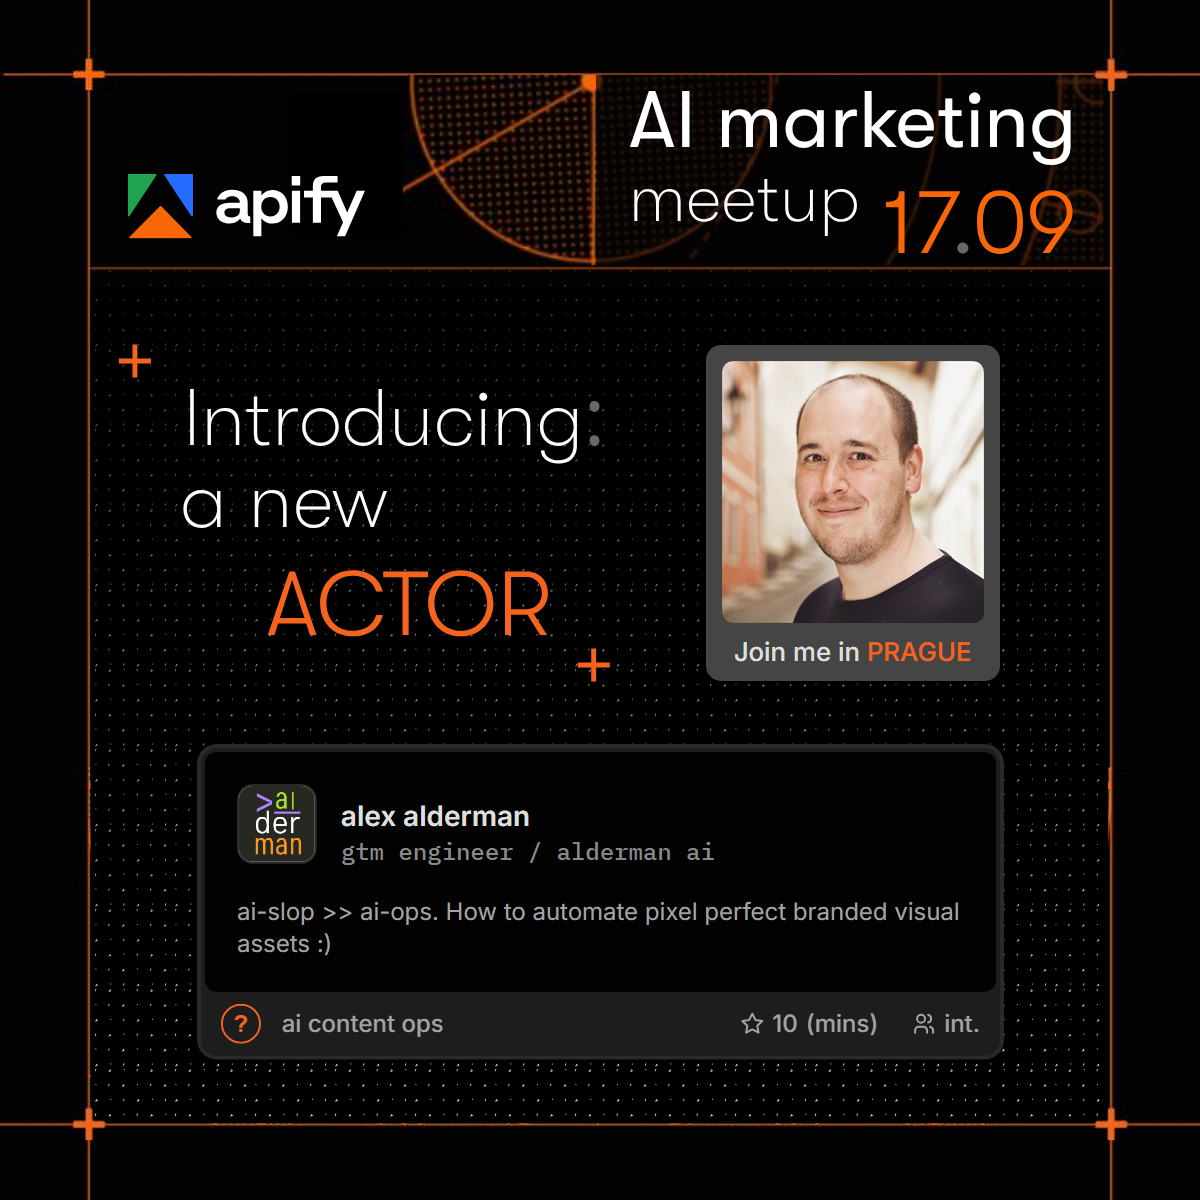
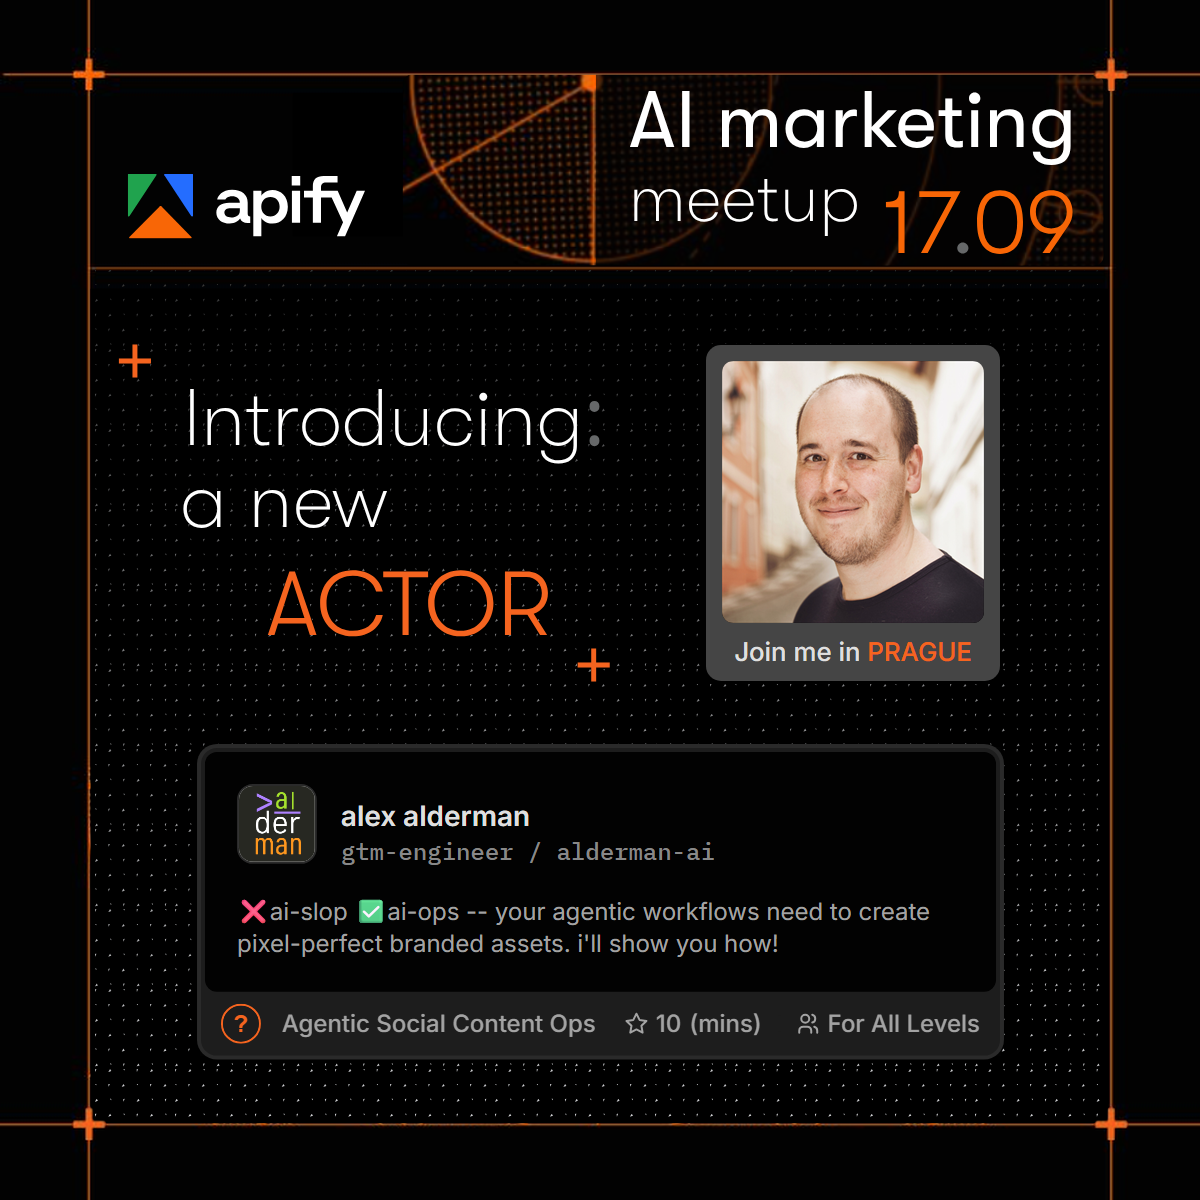
Regenerate the alex-alderman card; raise the blurb budget to 115 in the skills
Rebuilt the author card end to end after new blurb copy:

  from ai-slop to ai-ops -- your agentic workflows for branded visual
  assets need to be pixel-perfect. let me show you how!

121 characters, rendered and measured at 32px into the 32px description
slot -- two full lines, no ellipsis. Delivered as alex-alderman-01 under
the duplicate-suffix rule; the earlier 106-char render stays in place.

Archive assets renamed to the contract names (company-logo.png,
speaker.png) so the folder matches what the generator expects.

Both skills now state a 115-character description budget. The old 100 was
a conservative character count standing in for a width constraint, and
the count is the wrong unit: two candidate strings of exactly 124
characters were measured, one fitting and one clipping. The template and
its copies still read 100 -- squaring that is a separate, deliberate
versioned change.

Claude-Session: https://claude.ai/code/session_01PiEpWPqsGy8i4TfCfZ5Ywn

diff --git a/processed/alex-alderman/intake.md b/processed/alex-alderman/intake.md
@@ -1,70 +1,28 @@
 ---
-# =============================================================================
-# ACTOR CARD INTAKE  —  one file = one rendered card
-# Lives as intake.md inside one speaker folder under to-process/.
-# Scaffold a folder by telling the assistant: new speaker "Name Surname"
-# Relative paths resolve from this file, i.e. from inside that folder.
-# Every field is documented in §2 below. Operators type ONLY in the fenced
-# input sections in the body ("Input presentation details here"); as step 1
-# of processing the assistant transfers each fence's contents into its
-# frontmatter variable here. This frontmatter is the machine record, not
-# the authoring surface. Everything else is documentation for humans.
-# =============================================================================
-
-# --- 1. base template --------------------------------------------------------
-# Fixed for this demo: ONE visual template with fixed dimensions (1200x1200).
-base_image:         "../../visual-templates/speaker-teaser-linkedin.png"
-
-# --- 2. images ---------------------------------------------------------------
-# NOTE: the small circle icon in the card footer is STATIC across every
-# generated card and is bundled with the skill. It is not an input.
-assets_root:        ""              # images live beside this form, in the folder
-company_logo:       "alderman-ai-mark-v1.png"
-speaker_image:      "speaker.png"   # square 1:1, PNG/JPG/JPEG, at most 800x800.
-                                     # Ideal: 262x262 (the slot's exact size).
-                                     # The skill scales an accepted square to
-                                     # fit; anything off-spec halts the run.
-
-# --- 3. speaker -- WRITTEN BY ASSISTANT from the body fences -----------------
-speaker_name:       "alex alderman"
-speaker_position:   "gtm engineer"
-speaker_company:    "alderman ai"
-
-# --- 4. the talk -- WRITTEN BY ASSISTANT from the body fences ----------------
-# NOTE: the presentation description is NOT a frontmatter field. It lives in
-# the body below, in the presentation-description fence. See just under the
-# frontmatter, and §2.
-topic_category:     "ai content ops"
-
-# --- 5. talk metadata (card footer, right) -- WRITTEN BY ASSISTANT -----------
-level:              "int."              # all | easy | int. | adv.
-duration_minutes:   "10"              # number only — the card renders 10 (mins)
-
-# --- 6. placement -- DERIVED, DO NOT AUTHOR ----------------------------------
-# The template image is canon. The skill measures both placeholders from
-# base_image at generation time and writes the eight values back here as a
-# record of what it used. Anything you type is overwritten. See §1b.
-# Values below are from the last run, not a specification.
-
-# actor card block — purple placeholder
-card_x:             200.5
-card_y:             748.028
-card_w:             799
-card_h:             306.949
-
-# speaker card block — green placeholder (the full footprint of the
-# card-style speaker component: square photo + "Join me in PRAGUE" bar)
-speaker_x:          705.5
-speaker_y:          345
-speaker_w:          294
-speaker_h:          336
-
-# --- 7. render options -------------------------------------------------------
-# output is optional. Default: final-output/<speaker-name>-final.png
-output:             ""
-card_width:         400
-desc_lines:         2
-href:               ""
+version: 3
+versioned_at: 2026-09-03 00:50
+base_image: ../../_internal/core-templates-please-dont-touch/speaker-teaser-linkedin_v3.png
+assets_root: ""
+company_logo: company-logo.png
+speaker_image: speaker.png
+speaker_name: alex alderman
+speaker_position: gtm-engineer
+speaker_company: alderman-ai
+topic_category: Agentic Social Content Ops
+level: For All Levels
+duration_minutes: 10
+card_x: 201
+card_y: 748
+card_w: 799
+card_h: 307
+speaker_x: 706
+speaker_y: 345
+speaker_w: 294
+speaker_h: 336
+output: ""
+card_width: 400
+desc_lines: 2
+href: ""
 ---
 
 # Input presentation details here
@@ -80,7 +38,7 @@ These fields will be filled in by operator -- or by the assistant if the info wa
 
 ## Speaker name
 
-Title Case, the form the speaker uses publicly. Fits whole up to **30
+for alex, part of his brand identity is all lowercased name. Fits whole up to **30
 characters**; longer is cut off with `…` on the card.
 
 ```speaker-name
@@ -93,7 +51,7 @@ Lowercase kebab-case (words joined by `-`), mirroring Apify's slug style —
 that's the pastiche, keep it.
 
 ```speaker-position
-gtm engineer
+gtm-engineer
 ```
 
 ## Company
@@ -103,38 +61,23 @@ spaced slash as `position / company`; together they fit up to **39
 characters** counting the 3-character ` / ` joiner.
 
 ```speaker-company
-alderman ai
+alderman-ai
 ```
 
 ## Topic category
 
-The track or theme, Title Case. Fits up to **33 characters**.
+The track or theme, Title Case. Fits up to **26 characters** (the fixed
+`For All Levels` on the footer's right shortened this from 33).
 
 ```topic-category
-ai content ops
+Agentic Social Content Ops
 ```
 
-## Audience level
+## Audience level — fixed, nothing to type
 
-Choose the level of complexity of the talk. See **audience level notes**
-below. Choose one of these **exactly** (keep the trailing dot on the two
-abbreviations):
-
-- `all`
-- `easy`
-- `int.`
-- `adv.`
-
-```level
-int.
-```
-
-### Audience level notes
-
-- All --  mostly conceptual, all levels can benefit
-- Easy -- more basic, and specific enough that advanced might be bored
-- Int. -- Intermediate, for those who know what an md file and a repo are
-- Adv. -- More technical topics that might be not very fun for a beginner.
+Since template v3 every card reads **For All Levels** after the 👥 glyph.
+There is no fence for it; the assistant leaves the frontmatter `level`
+value exactly as it is.
 
 ## Duration
 
@@ -153,9 +96,8 @@ fence label is the enforced character budget: the two-line capacity of the
 render width (`card_width: 400`), operator-calibrated against real renders.
 Exceeding the budget rejects the form; the card is never silently truncated.
 
-```presentation-description-140-char-max
-
-ai-slop >> ai-ops. How to automate pixel perfect branded visual assets :)
+```presentation-description-100-char-max
+from ai-slop to ai-ops -- your agentic workflows for branded visual assets need to be pixel-perfect. let me show you how!
 ```
 
 ## End of inputs
@@ -207,7 +149,7 @@ element (§1b).
 | *description fence (body)* | the talk blurb | `[data-slot="description"]` | `textContent`, from the fence, not frontmatter |
 | *(static, bundled)* | orange `?` in an orange-ringed circle | `[data-slot="authorAvatar"]` | fixed asset, **not an input** |
 | `topic_category` | e.g. "Content Ops" | `[data-slot="authorName"]` | `textContent`, two spaces after the icon |
-| `level` | all / easy / int. / adv. | `[data-slot="users"]` | `textContent` |
+| *(static, since v3)* | the text `For All Levels` | `[data-slot="users"]` | fixed text from the frontmatter `level`, **not an input** |
 | `duration_minutes` | minutes, number only | `[data-slot="rating"]` | `textContent` |
 | *(static, in the shell)* | the text `(mins)` | `[data-slot="ratingCount"]` | fixed text, **not an input** |
 | `speaker_image` | the portrait | `.SpeakerCard-photo` | square photo slot of the speaker element, §1b |
@@ -325,7 +267,8 @@ card pasted inside a block), the printed values win after agreeing with
 the mask within 6px — a disagreement halts with both numbers reported.
 
 The current canon template is **machine-built** (see
-`visual-templates/README.md`): baked starfield, blocks drawn at the locked
+`_internal/core-templates-please-dont-touch/README.md`): baked starfield,
+blocks drawn at the locked
 layout. It supersedes the operator's original Canva export. Re-exporting
 over it means re-staging that recipe, not just dropping in a new PNG.
 
@@ -370,7 +313,7 @@ opposite: it renders 1:1 at the block's own size, no scaling.
 ## 2. Field schema
 
 Operator-typed values (`speaker_name`, `speaker_position`,
-`speaker_company`, `topic_category`, `level`, `duration_minutes`, and the
+`speaker_company`, `topic_category`, `duration_minutes`, and the
 description) arrive via the fenced inputs in "Input presentation details
 here" and are transferred into the frontmatter by the assistant; on any
 disagreement the fences win. The schema below describes the frontmatter
@@ -433,14 +376,14 @@ resubmit requested.
 The first fenced block after the frontmatter whose info string starts with
 `presentation-description`. The number in the label is the budget:
 
-    ```presentation-description-140-char-max
+    ```presentation-description-100-char-max
     How we cut lead research from six hours a week to twenty minutes.
     ```
 
 - Inter 12px / 400 / `#a3a3a3`, clamped to `desc_lines` (2 lines).
-- **Budget: 140 characters** — the two-line capacity of the description
-  slot at the card's native CSS render width, operator-calibrated against
-  real renders. The budget is parsed from the fence label itself, so
+- **Budget: 100 characters** — a safe two-line capacity of the description
+  slot at the card's native CSS render width, measured 2026-09-03 against
+  real renders (ordinary prose fits 114–123, wide capitals as few as 72). The budget is parsed from the fence label itself, so
   retuning it for a different card width means renaming the fence.
 - Newlines inside the fence are collapsed to spaces; leading/trailing
   whitespace is trimmed. One plain paragraph — no markdown.
@@ -476,16 +419,18 @@ off-spec · either half empty → the line collapses.
 
 - Inter 12px / 500 / `#a3a3a3`, right of the footer help icon with two
   spaces of clearance. Title Case. Single line, ellipsises.
-- Budget: **33 characters** before it collides with the footer's
-  right-hand group.
+- Budget: **26 characters** before it collides with the footer's
+  right-hand group (shortened from 33 when `level` became the fixed
+  `For All Levels`, template v3).
 
-### `level` — string, **required**
+### `level` — **fixed, not an input**
 
-- One of exactly: `all` · `easy` · `int.` · `adv.` — including the
-  trailing dot on the two abbreviations. Renders right of the 👥 glyph.
+- Every card reads `For All Levels` right of the 👥 glyph (template v3).
+  The frontmatter value ships filled; the assistant leaves it alone. If a
+  future footer change makes it clip, the sanctioned fallback is
+  `All Levels`.
 
-**States:** one of the four → renders · anything else → renders as given,
-flagged as off-vocabulary rather than failing.
+**States:** always renders.
 
 ### `duration_minutes` — string, **required**
 
@@ -497,16 +442,17 @@ flagged as off-vocabulary rather than failing.
 The 20×20 circle in the footer: an orange (`#f5641f`) question mark on the
 shell colour, ringed by a 1px orange border (the ring is CSS in the render
 shell; the `?` is the SVG). Identical on every generated card. Ships as
-`internal/render/footer-help-icon.svg`; SVG, so it stays crisp at any
+`_internal/render/footer-help-icon.svg`; SVG, so it stays crisp at any
 scale.
 
 ### `output` — string, optional
 
 Destination for the finished PNG. Left empty, it defaults to
-`final-output/<speaker-name>-final.png`.
+`generated-images/<speaker-name>-final.png`.
 
-**States:** path free → written · **file exists → the skill refuses and
-reports; it never overwrites.**
+**States:** path free → written · file exists → written under a `-<NN>`
+suffix (lowest free number, first dupe = 01) and reported; **the existing
+file is never touched.**
 
 ### `card_width` — integer, optional, default `400`
 
@@ -534,11 +480,11 @@ to-process/<speaker-folder>/     one folder per card:
     speaker.png
 processed/<speaker-folder>/      the whole folder lands here on success
                                  (archive: form + assets)
-final-output/<speaker>-final.png the finished render, delivered separately
+generated-images/<speaker>-final.png the finished render, delivered separately
 ```
 
-1. **Scaffold**: tell the assistant *"new speaker Jana Novakova"* (the
-   `new-speaker` skill) — it creates `to-process/jana-novakova/` with the
+1. **Scaffold**: tell the assistant *"new speaker Alex Alderman"* (the
+   `new-speaker` skill) — it creates `to-process/alex-alderman/` with the
    form (name pre-filled) and the README. With no name it creates
    `new-speaker-<NN>/`, renamed to the kebab speaker name at processing.
 2. **Fill**: the fenced inputs under "Input presentation details here",
@@ -551,7 +497,7 @@ final-output/<speaker>-final.png the finished render, delivered separately
    `base_image` (colour mask; printed panels win when present, §1b) →
    card-ratio check → renders in a headless Chromium browser, all fonts
    local → verifies output dimensions and pixels by inspection → writes
-   the PNG to `final-output/<speaker>-final.png` → **moves the whole
+   the PNG to `generated-images/<speaker>-final.png` → **moves the whole
    folder to `processed/`**, geometry written back into the form.
 5. **Missing images**: the run stops for that folder and asks —
    *"resubmit with the image(s) added, or generate now with a placeholder
@@ -560,8 +506,12 @@ final-output/<speaker>-final.png the finished render, delivered separately
    post-hoc covers it completely.
 6. **Failures** stay in `to-process/`, nothing partial is written, the
    reason is printed, the rest of the batch continues.
-7. **Nothing is ever overwritten** — a name collision in `processed/` or
-   `final-output/` refuses that folder.
+7. **Nothing is ever overwritten** — a name already taken in `processed/`
+   or `generated-images/` lands under `<name>-<NN>` (lowest free number,
+   first dupe = 01), the same NN on the archive folder and the PNG.
+   Duplicate names are legitimate (a rebuilt card, a fresh start, a
+   namesake) and are detected by folder/file names only — a repeated
+   `speaker_name` in the frontmatter breaks nothing.
 
 ## 4. Batch discipline
 

diff --git a/_internal/skills/apify-speaker-card.md b/_internal/skills/apify-speaker-card.md
@@ -158,7 +158,7 @@ implied_h = card_h / scale
 
 `implied_h` must land within **±2px** of the card's real height for this
 form's text — the quantised table: no desc 113.667 · empty-string desc
-121.667 · 1 line 137.667 · 2 lines 153.667 · 3 lines 169.667. (A ≤100-char
+121.667 · 1 line 137.667 · 2 lines 153.667 · 3 lines 169.667. (A ≤115-char
 description at width 400 renders 2 lines when over ~70 chars, 1 line under.)
 On failure, report the height the block should be (`actual_h × scale`) and
 halt that folder. **Never stretch, letterbox or crop the card to fit.**
@@ -245,7 +245,7 @@ warning. Then totals. One bad folder never stops the rest.
   card; never an input. The ring is the avatar's CSS border in the shell;
   the `?` is `_internal/render/footer-help-icon.svg`.
 - Text budgets: name 30 · position/company 39 (including the 3-char
-  ` / ` joiner) · description 100 (from the fence label,
+  ` / ` joiner) · description 115 (from the fence label,
   measured against real two-line renders at width 400 on 2026-09-03) ·
   topic 26 (shortened from 33 by the fixed level text). `level` is
   static since template v3: `For All Levels`, never an input.

diff --git a/_internal/skills/new-speaker.md b/_internal/skills/new-speaker.md
@@ -60,7 +60,7 @@ operator tells you in chat. The operator never has to open the form.
      they fit 39 characters including the ` / ` joiner
    - **topic category** — Title Case, up to 26 characters
    - **duration** — minutes, number only
-   - **blurb** — one plain paragraph, up to 100 characters
+   - **blurb** — one plain paragraph, up to 115 characters
    - **company logo** — a path to a square image, ideally 80×80 or larger
    - **speaker photo** — a path to an exactly square PNG/JPG/JPEG, at most
      800×800 (262×262 is the perfect fit); it is scaled into the slot,

diff --git a/processed/alex-alderman/README.md b/processed/alex-alderman/README.md
@@ -30,6 +30,7 @@ corner rounding).
 ## Text limits
 
 name 30 · position/company 39 (including the ` / ` joiner) ·
-description 140 · topic 33.
+description 100 · topic 26. The audience level is fixed (`For All
+Levels`) and is not typed.
 The description budget is enforced from the fence label; over it, the form is
 rejected rather than truncated. Everything else ellipsises.
